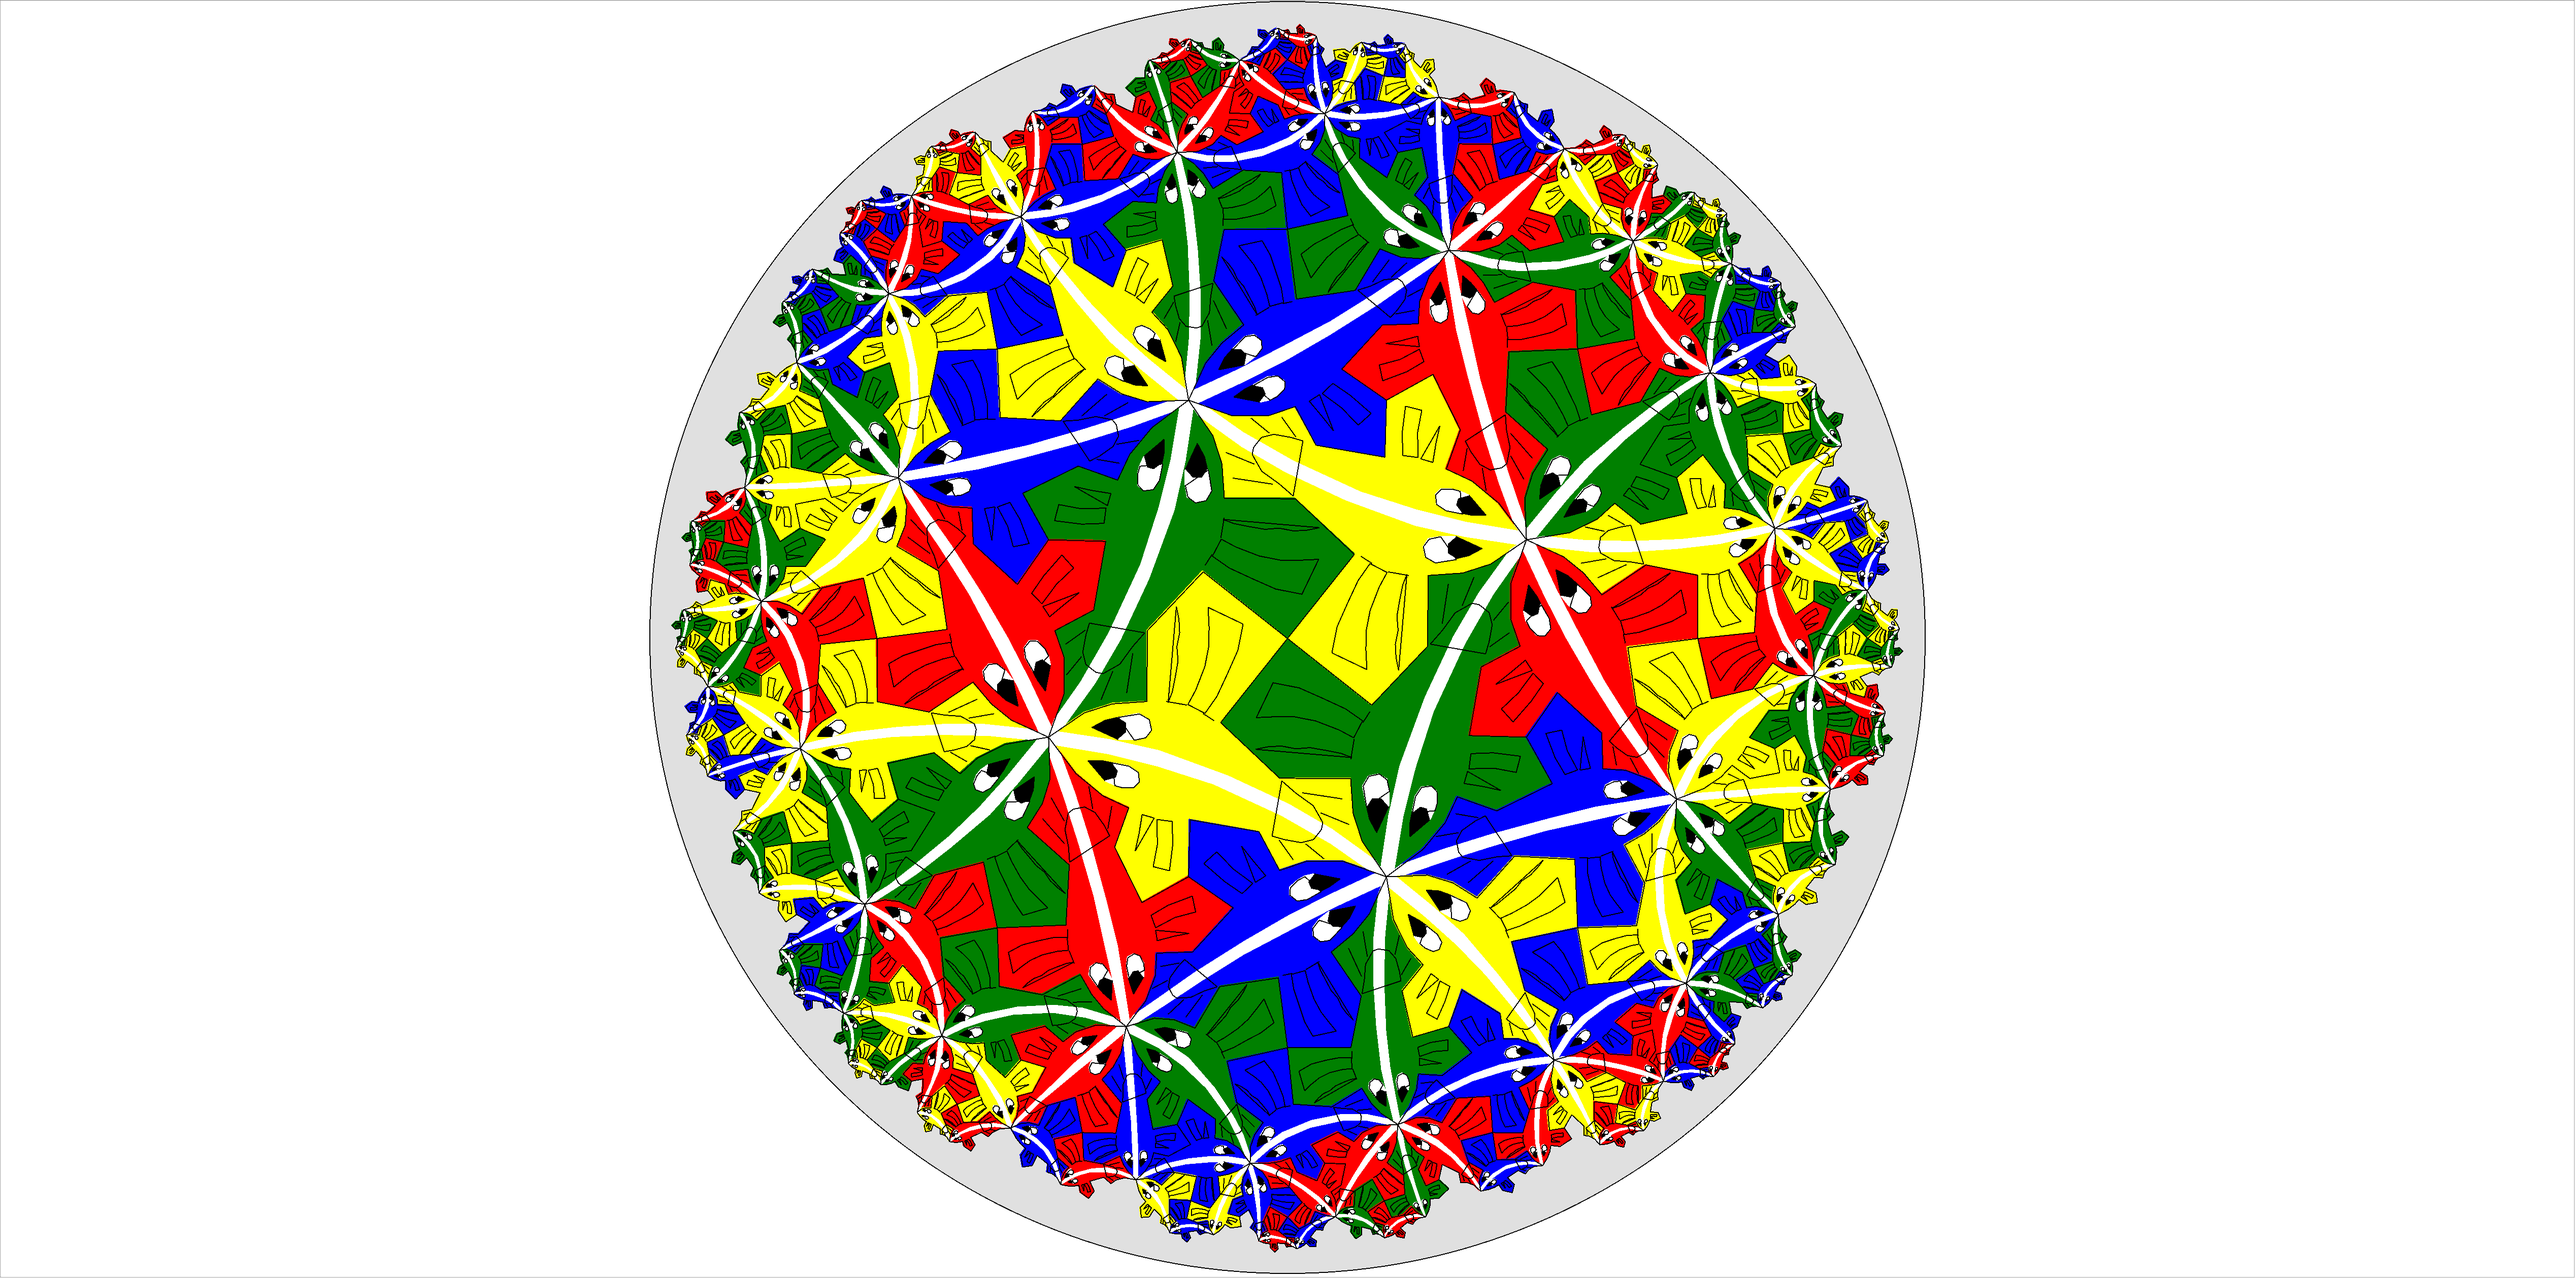
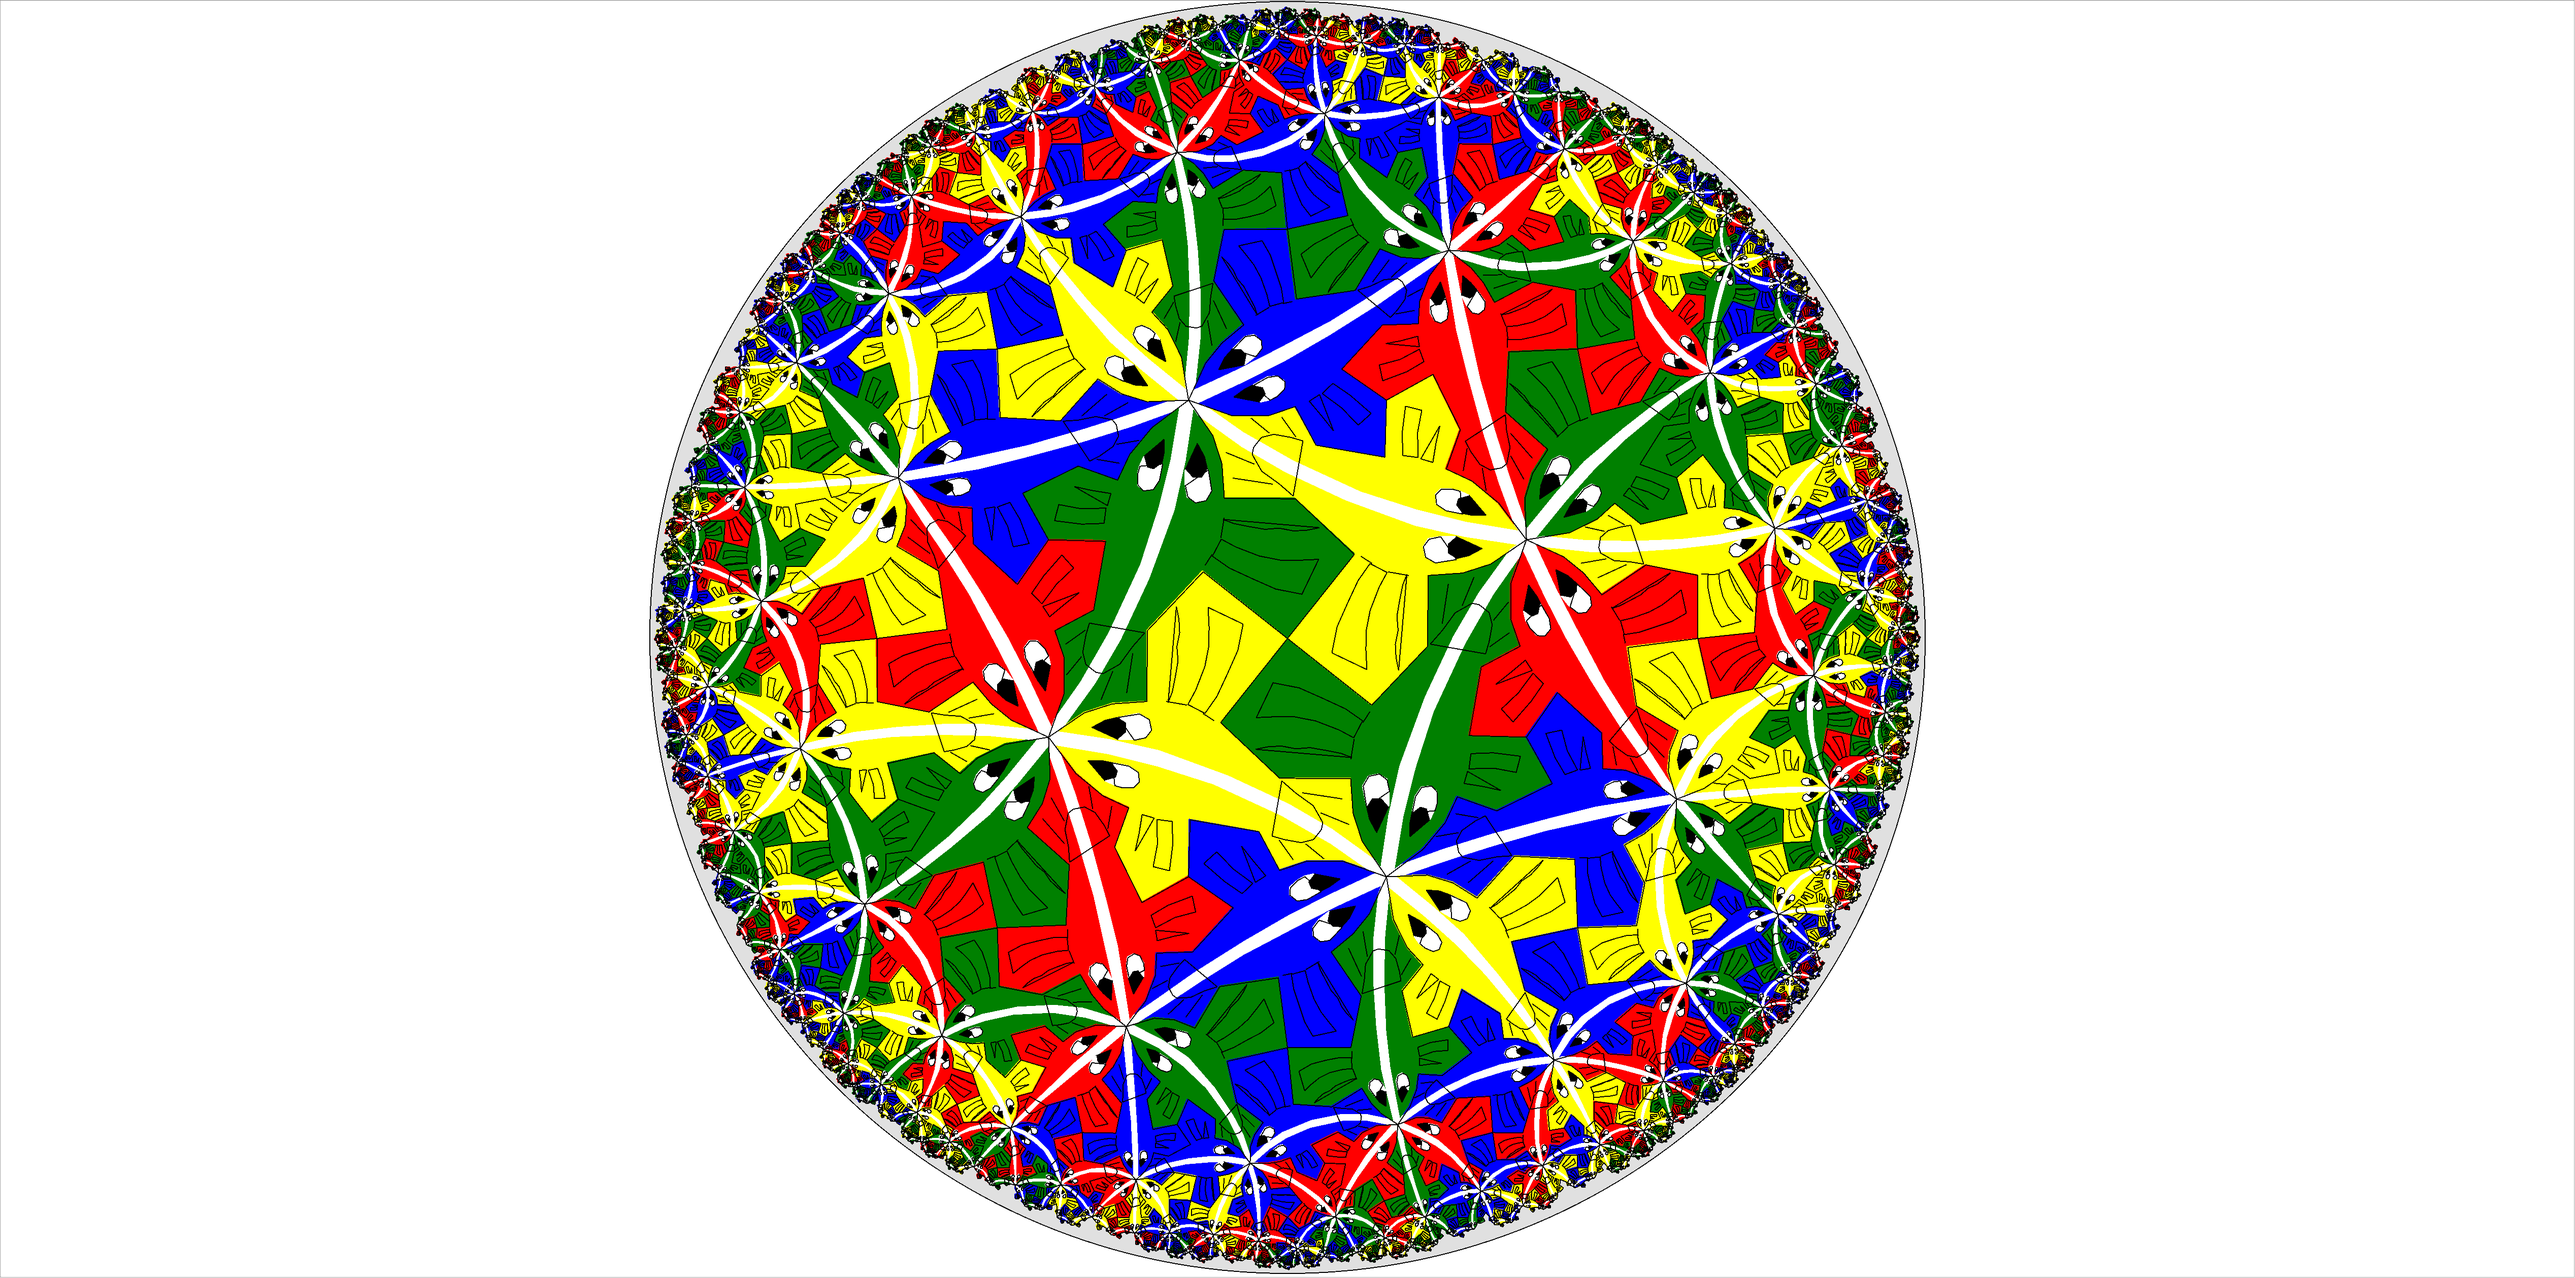
Set numLayers to 4 in diagram.h
Num of layers = 4 takes more resources, but shuold be ok on most systems.
Updated sample images from 3 layer images to 4 layer images.

Changed region(s): [[0.2492, 0.0, 0.7476, 0.9913]]

diff --git a/diagram.h b/diagram.h
@@ -117,7 +117,7 @@ protected: //data
     /**
     Number of Layers to generate
     */
-    int numLayers_ = 3;
+    int numLayers_ = 4;
     /**
     diag_ is collection of all the patterns.
     */

diff --git a/README.md b/README.md
@@ -9,20 +9,26 @@ While this may not have any immediate commercial application, it is very interes
 HyperArt has a HyperArt Designs (.had) file which is in XML format. While a HyperArt Designer is sorely needed, many .had files are included in the 'designs' directory included in this repository. These jpg and png files were generated by HyperArt from the corresponding .had files. 
 
 Here are a few samples... 
-### Circle Limit 2
-![cl2](docs/exported_images/cl2.jpg)
+### P104RF66
+![p104rf66](docs/exported_images/p104rf66.png)
 
-### Leaf
-![leaf](docs/exported_images/leaf.png)
+### Circle Limit 1
+![cl1](docs/exported_images/cl1.png)
+
+### Circle Limit 2
+![cl2](docs/exported_images/cl2.png)
 
 ### Circle Limit 3
 ![cl3](docs/exported_images/cl3.png)
 
-### F-star 54
-![fstar54](docs/exported_images/fstar54.png)
-
 ### Circle Limit 4
 ![cl4](docs/exported_images/cl4.png)
+
+### Leaf
+![leaf](docs/exported_images/leaf.png)
+
+### F-star 54
+![fstar54](docs/exported_images/fstar54.png)
 
 ## History
 ### 2005
